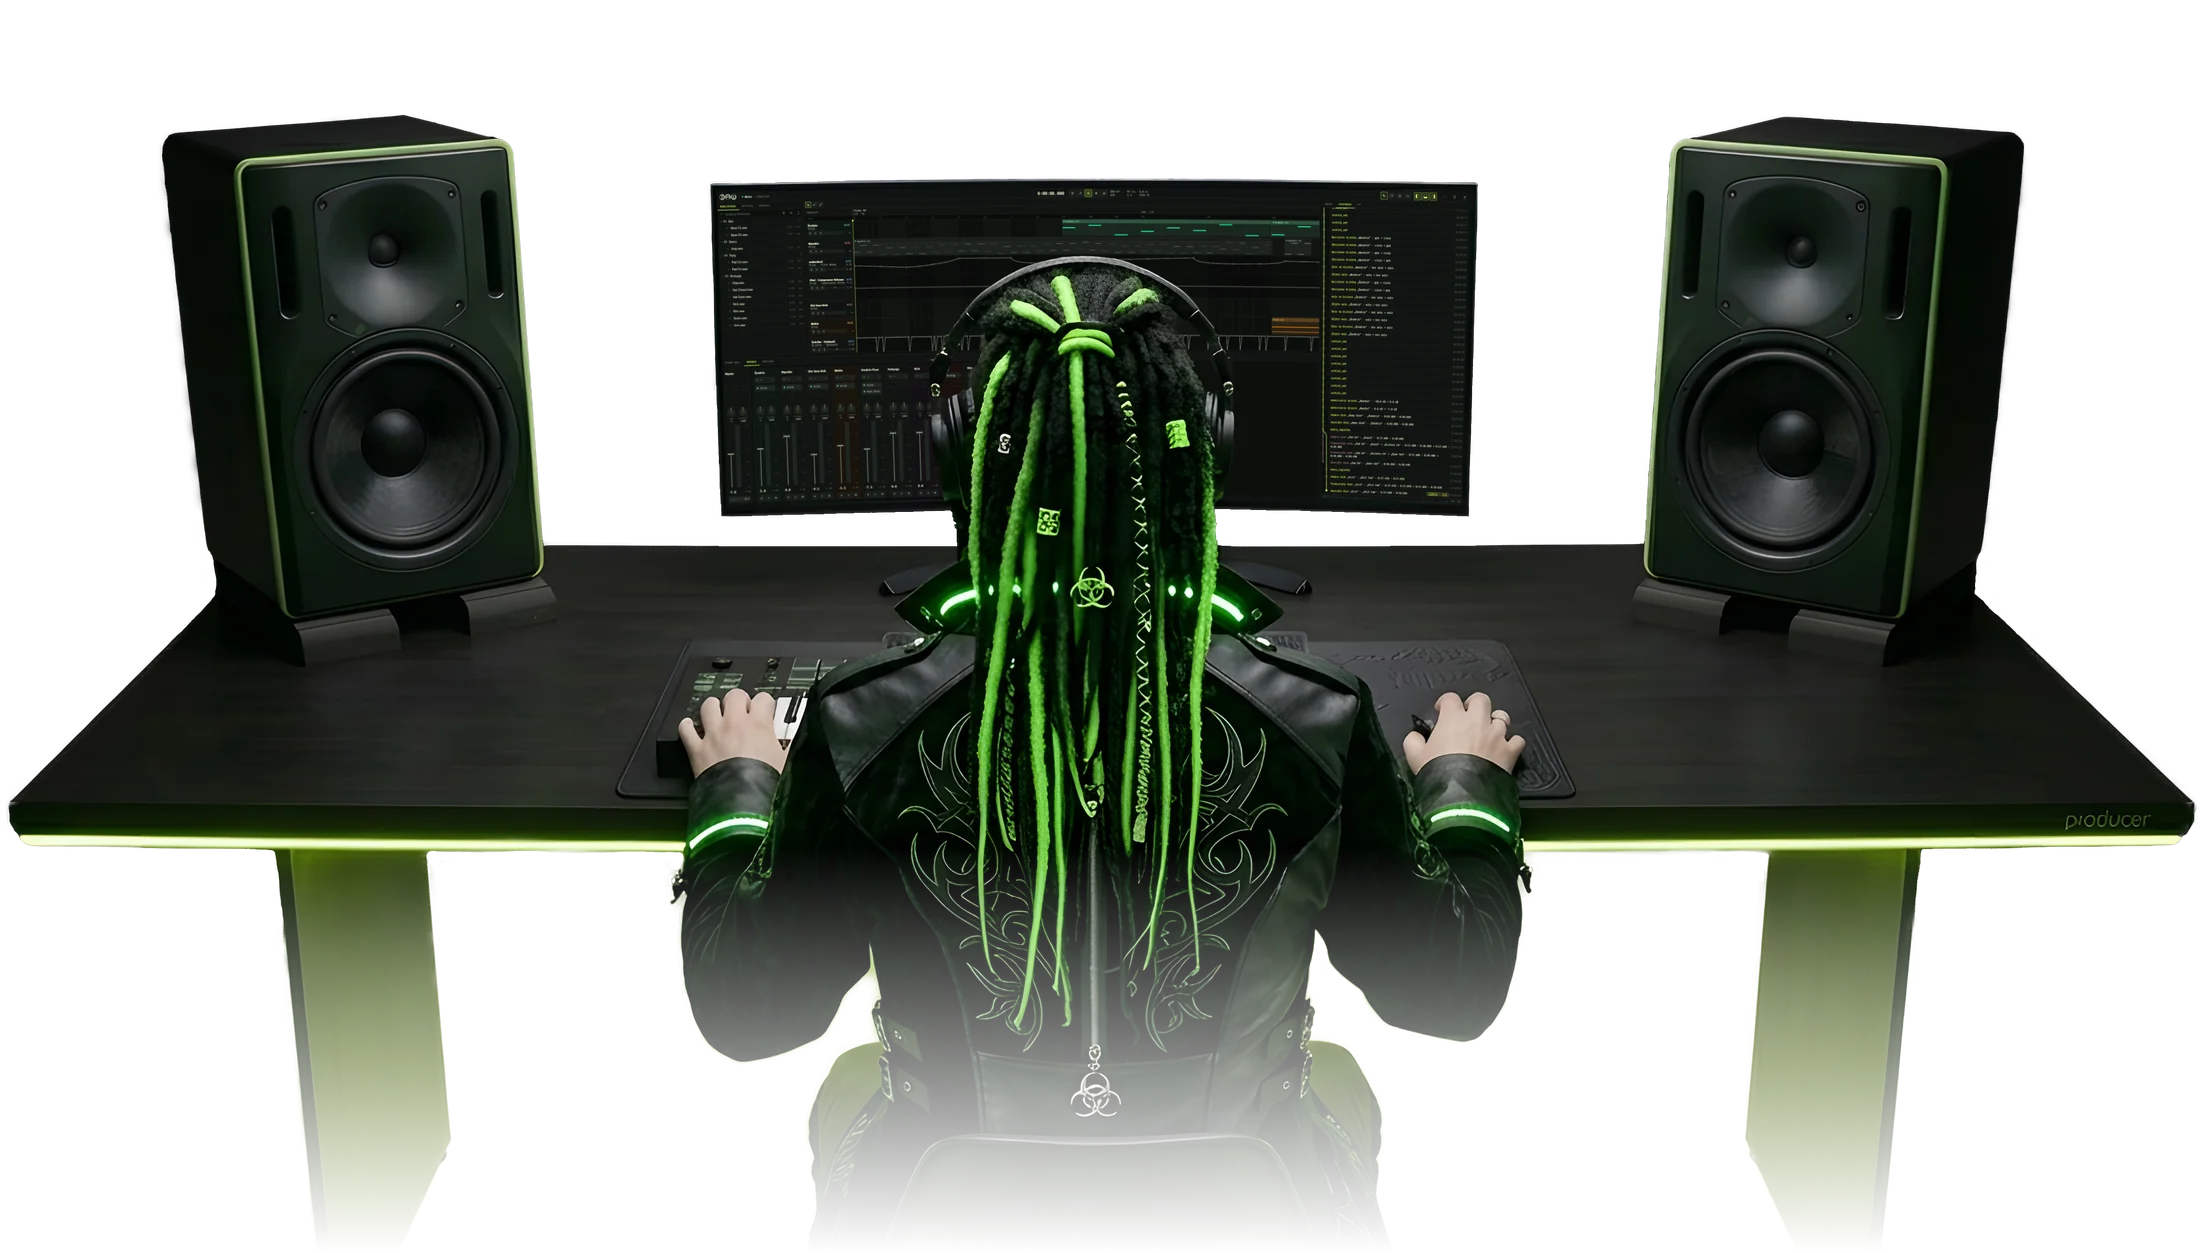
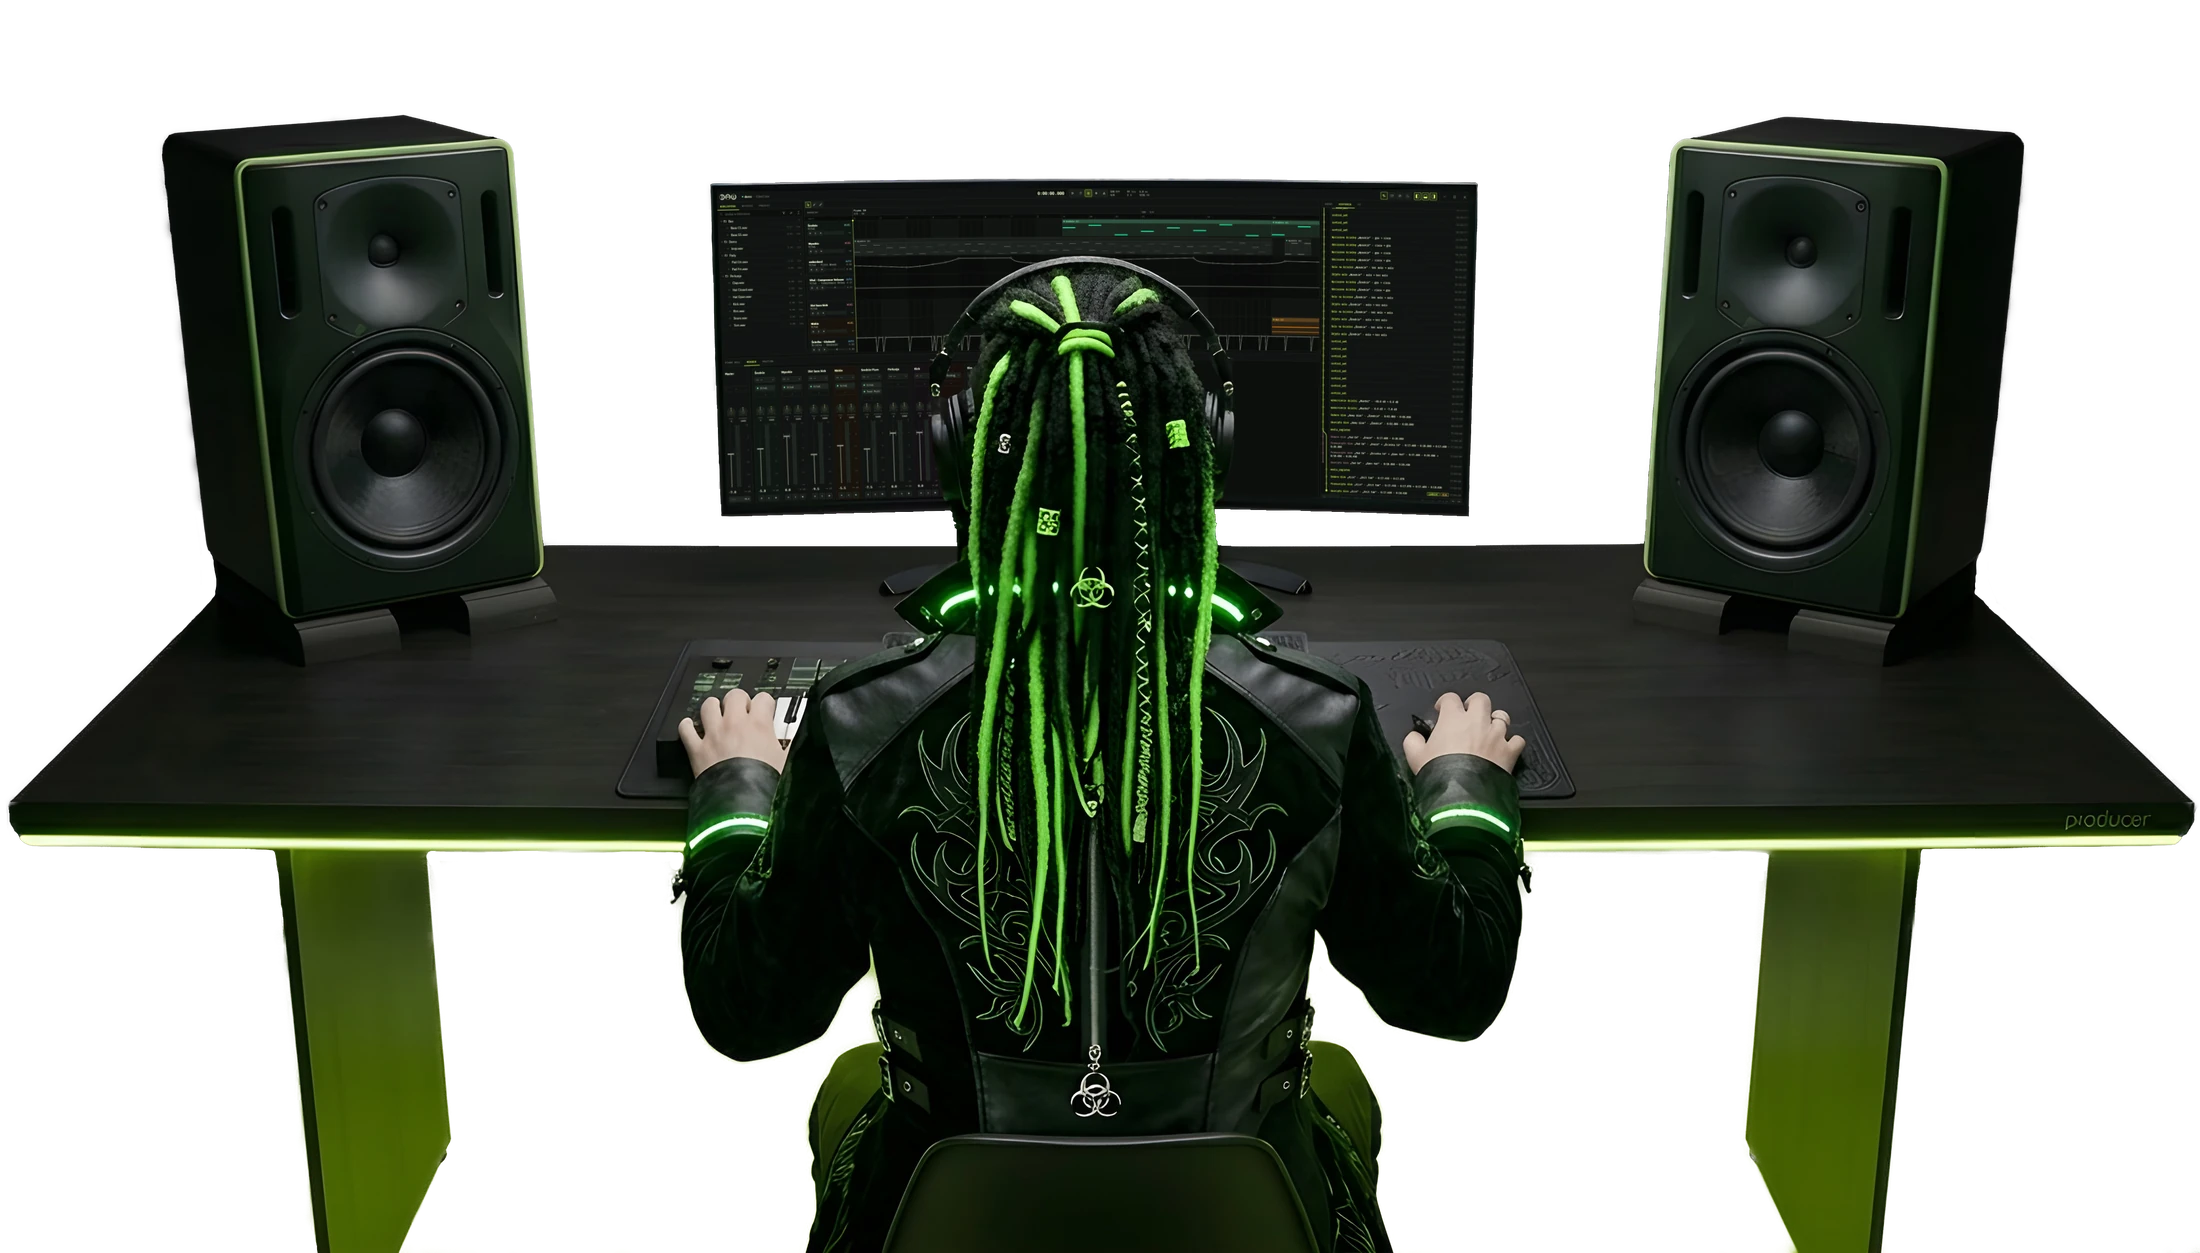
Nowe zdjęcie producenta, analizator z poziomych segmentów od odstępu do góry
Nowe zdjęcie z ograniczonym kanałem alfa (przejść półprzezroczystych 2,7 %
zamiast 16 %, krzesło i cień pod producentem kryjące), przekonwertowane jak
poprzednie: WebP 2200 px z kanałem alfa, q90 / 250 kB (było 283 kB). Źródłowy
PNG zostaje poza repozytorium — w public/ trafiłby na serwer.

Analizator: zamiast kwadratów poziome segmenty (ok. 3 : 1, przy 1600 px okna
29 × 11 px, 37 wierszy). Siatka zaczyna się 8 % wysokości nad dolną krawędzią
zdjęcia i sięga dokładnie górnej — liczba wierszy zaokrąglana, podziałka
pionowa dopasowana, szczelina pod każdym segmentem, więc najwyższy zaczyna
się równo na krawędzi (sprawdzone: y = 0).

Changed region(s): [[0.3091, 0.6848, 0.7109, 1.0], [0.1236, 0.6848, 0.2164, 1.0], [0.7727, 0.6848, 0.8964, 1.0]]

diff --git a/src/audio/SpectrumGrid.js b/src/audio/SpectrumGrid.js
@@ -3,8 +3,10 @@ import { bandLevel } from './spectrum.js';
 
 /**
  * Retro analizator widma za zdjęciem w sekcji „Jak powstał DAW”: siatka
- * kwadratowych „diod”, minimalnie jaśniejszych od tła, w której słupki
- * zapalają całe kratki od dołu — jak w starym korektorze graficznym.
+ * poziomych segmentów „diod”, minimalnie jaśniejszych od tła, w której słupki
+ * zapalają całe segmenty od dołu — jak w starym korektorze graficznym. Siatka
+ * zaczyna się nad dolną krawędzią zdjęcia (odstęp `bottom`) i sięga dokładnie
+ * górnej.
  *
  * Kolumny to pasma tercjowe ISO 266 od 31,5 Hz do 16 kHz, wiersze — poziom.
  * Nad słupkiem zostaje znacznik szczytu: trzyma się chwilę, potem opada.
@@ -26,14 +28,24 @@ const BANDS = [
 const EDGE = 2 ** (1 / 6);
 
 const GRID = {
-  /** szczelina między kratkami jako ułamek podziałki */
+  /** szczelina między kolumnami jako ułamek podziałki poziomej */
   gap: 0.22,
-  /** kratka zgaszona — minimalnie jaśniejsza od tła sekcji */
+  /**
+   * Wysokość wiersza jako ułamek podziałki poziomej — segmenty są poziomymi
+   * prostokątami, ok. 3 : 1. Liczba wierszy jest zaokrąglana tak, żeby
+   * wypełniły wysokość co do piksela, więc ta wartość jest przybliżona.
+   */
+  row: 0.4,
+  /** szczelina między wierszami jako ułamek podziałki pionowej */
+  rowGap: 0.3,
+  /** odstęp siatki od dolnej krawędzi zdjęcia, jako ułamek jego wysokości */
+  bottom: 0.08,
+  /** segment zgaszony — minimalnie jaśniejszy od tła sekcji */
   off: 'rgba(232, 236, 232, 0.035)',
   /**
-   * Krycie zapalonych kratek: najniższy i najwyższy wiersz. Dół musi być
-   * wyraźny — zdjęcie odsłania go prawie na całej szerokości (pod biurkiem),
-   * a przy 0,12 zapalona kratka ledwie odróżniała się od zgaszonej (0,035).
+   * Krycie zapalonych segmentów: najniższy i najwyższy wiersz. Dół musi być
+   * wyraźny — zdjęcie odsłania go po bokach pod biurkiem, a przy 0,12
+   * zapalony segment ledwie odróżniał się od zgaszonego (0,035).
    */
   lit: [0.24, 0.36],
   /** krycie znacznika szczytu */
@@ -65,7 +77,7 @@ export class SpectrumGrid {
     this.canvas.setAttribute('aria-hidden', 'true');
     stage.prepend(this.canvas);
     this.ctx = this.canvas.getContext('2d');
-    // siatka zgaszonych kratek rysowana raz, przy zmianie rozmiaru
+    // siatka zgaszonych segmentów rysowana raz, przy zmianie rozmiaru
     this.base = document.createElement('canvas');
 
     const n = BANDS.length;
@@ -103,20 +115,25 @@ export class SpectrumGrid {
       if (c.height !== H) c.height = H;
     }
 
-    // Kratki kwadratowe, w pikselach urządzenia i na całych pikselach — retro
-    // „dioda” ma mieć ostre krawędzie. Kolumn tyle, ile pasm; wierszy tyle,
-    // ile zmieści się w wysokości, liczone od dołu.
+    // Segmenty w pikselach urządzenia i na całych pikselach — retro „dioda” ma
+    // mieć ostre krawędzie. Kolumn tyle, ile pasm. Wiersze liczone od dołu:
+    // wypełniają dokładnie pas od odstępu `bottom` do górnej krawędzi, a
+    // szczelina leży pod każdym segmentem, więc najwyższy zaczyna się równo
+    // na krawędzi.
     const cols = BANDS.length;
     const pitch = W / cols;
     const gap = Math.max(1, Math.round(pitch * GRID.gap));
-    const rows = Math.max(1, Math.floor(H / pitch));
+    const floor = H - Math.round(H * GRID.bottom);
+    const rows = Math.max(1, Math.round(floor / (pitch * GRID.row)));
+    const rowPitch = floor / rows;
+    const rowGap = Math.max(1, Math.round(rowPitch * GRID.rowGap));
     this.xs = Array.from({ length: cols }, (_, c) => {
       const x0 = Math.round(c * pitch + gap / 2);
       return [x0, Math.round((c + 1) * pitch - gap / 2) - x0];
     });
     this.ys = Array.from({ length: rows }, (_, r) => {
-      const y0 = Math.round(H - (r + 1) * pitch + gap / 2);
-      return [y0, Math.round(H - r * pitch - gap / 2) - y0];
+      const y0 = Math.round(floor - (r + 1) * rowPitch);
+      return [y0, Math.round(floor - r * rowPitch) - rowGap - y0];
     });
     this.rows = rows;
     this.rowStyles = Array.from({ length: rows }, (_, r) => {
@@ -175,8 +192,8 @@ export class SpectrumGrid {
     ctx.clearRect(0, 0, canvas.width, canvas.height);
     ctx.drawImage(this.base, 0, 0);
 
-    // zapalone kratki: słupek zapala całe kratki, bez ułamków — jeden kolor
-    // na wiersz, więc zmian stylu jest tyle, ile wierszy
+    // zapalone segmenty: słupek zapala całe segmenty, bez ułamków — jeden
+    // kolor na wiersz, więc zmian stylu jest tyle, ile wierszy
     const lit = Array.from(this.level, (v) => Math.round(clamp(v, 0, 1) * rows));
     for (let r = 0; r < rows; r += 1) {
       const [y, h] = this.ys[r];
@@ -193,7 +210,7 @@ export class SpectrumGrid {
       if (!any) break;
     }
 
-    // znaczniki szczytu — jedna kratka nad słupkiem
+    // znaczniki szczytu — jeden segment nad słupkiem
     ctx.fillStyle = `rgba(${LIME},${GRID.peak})`;
     for (let c = 0; c < lit.length; c += 1) {
       const p = Math.round(clamp(this.peak[c], 0, 1) * rows) - 1;

diff --git a/README.md b/README.md
@@ -484,19 +484,23 @@ muzykę, ale pierścienie stoją.
 
 ### Retro analizator za zdjęciem
 
-Za zdjęciem w sekcji „Jak powstał DAW” stoi siatka kwadratowych „diod”
-minimalnie jaśniejszych od tła (krycie 0,035), w której słupki zapalają całe
-kratki od dołu, jak w starym korektorze graficznym. Kolumny to 28 pasm
-tercjowych ISO 266 od 31,5 Hz do 16 kHz, wierszy tyle, ile zmieści się
-w wysokości (przy 1600 px okna 15, kratki 29 px). Nad słupkiem znacznik
-szczytu: stoi 0,5 s, potem opada. Kalibracja widma wspólna z pierścieniami
+Za zdjęciem w sekcji „Jak powstał DAW” stoi siatka poziomych segmentów
+„diod” minimalnie jaśniejszych od tła (krycie 0,035), w której słupki zapalają
+całe segmenty od dołu, jak w starym korektorze graficznym. Kolumny to 28 pasm
+tercjowych ISO 266 od 31,5 Hz do 16 kHz. Siatka zaczyna się 8 % wysokości nad
+dolną krawędzią zdjęcia i sięga dokładnie górnej: liczba wierszy jest
+zaokrąglana, a podziałka pionowa dopasowywana tak, żeby najwyższy segment
+zaczynał się równo na krawędzi (przy 1600 px okna 37 wierszy, segmenty
+29 × 11 px). Nad słupkiem znacznik szczytu: stoi 0,5 s, potem opada. Kalibracja widma wspólna z pierścieniami
 (`src/audio/spectrum.js`), bufor widma na klatkę też — analiza liczy się raz.
 
 Zdjęcie jest wycinanką (43 % pikseli w pełni przezroczystych), więc siatka
 prześwituje jak ściana za stanowiskiem: nad monitorem i głośnikami, w
-szczelinach między nimi, na skrajnych kolumnach i prawie na całej szerokości
-pod biurkiem. Stąd krycie zapalonych kratek 0,24 na dole i 0,36 u góry — przy
-0,12 dół, najlepiej odsłonięty, ledwie odróżniał się od zgaszonych kratek.
+szczelinach między nimi, na skrajnych kolumnach i po bokach pod biurkiem.
+Obecna wersja zdjęcia ma ograniczony kanał alfa — przejść półprzezroczystych
+jest 2,7 % zamiast 16 %, a krzesło i cień pod producentem są kryjące.
+Krycie zapalonych segmentów 0,24 na dole i 0,36 u góry — przy 0,12 dół ledwie
+odróżniał się od zgaszonych.
 
 Poziomy na prawdziwym nagraniu (analizator jak na stronie, offline):
 średnio 42 %, do sufitu dochodzi 1 % słupków; w intro grają tylko basy,
@@ -516,10 +520,11 @@ Plik ma 7,65 MB (320 kbps stereo, 3:11). Do tła w zupełności wystarczy
 - Zrzuty slajdów (`1`–`8`) przekonwertowane z PNG na WebP: 2561 kB → 723 kB.
   Bezstratnie, żeby tekst interfejsu został ostry; wyjątkiem jest `2`, w dużej
   mierze fotograficzne GUI wtyczek, zapisane stratnie q97.
-- Zdjęcie z sekcji „Jak powstał DAW” ważyło 6,3 MB (PNG 4606 × 2624).
-  Tutaj jest jako WebP 2200 px / 283 kB — **z kanałem alfa**, bo to wycinanka
-  na przezroczystym tle. Odrzucenie alfy przy konwersji odsłania surowe zielone
-  piksele spod biurka.
+- Zdjęcie z sekcji „Jak powstał DAW” to PNG 4606 × 2624 (5,6 MB). Tutaj jest
+  jako WebP 2200 px, q90 / 250 kB — **z kanałem alfa**, bo to wycinanka na
+  przezroczystym tle. Odrzucenie alfy przy konwersji odsłania surowe zielone
+  piksele spod biurka. Źródłowy PNG nie jest w repozytorium — w `public/`
+  trafiłby na serwer jako nieużywane 5,6 MB.
 - Treść slajdów (numer, tytuł, opis, plik) siedzi w `src/data/slides.js` —
   dodanie albo usunięcie pozycji nie wymaga zmian w silniku, kąt na okręgu
   i promień policzą się same.
